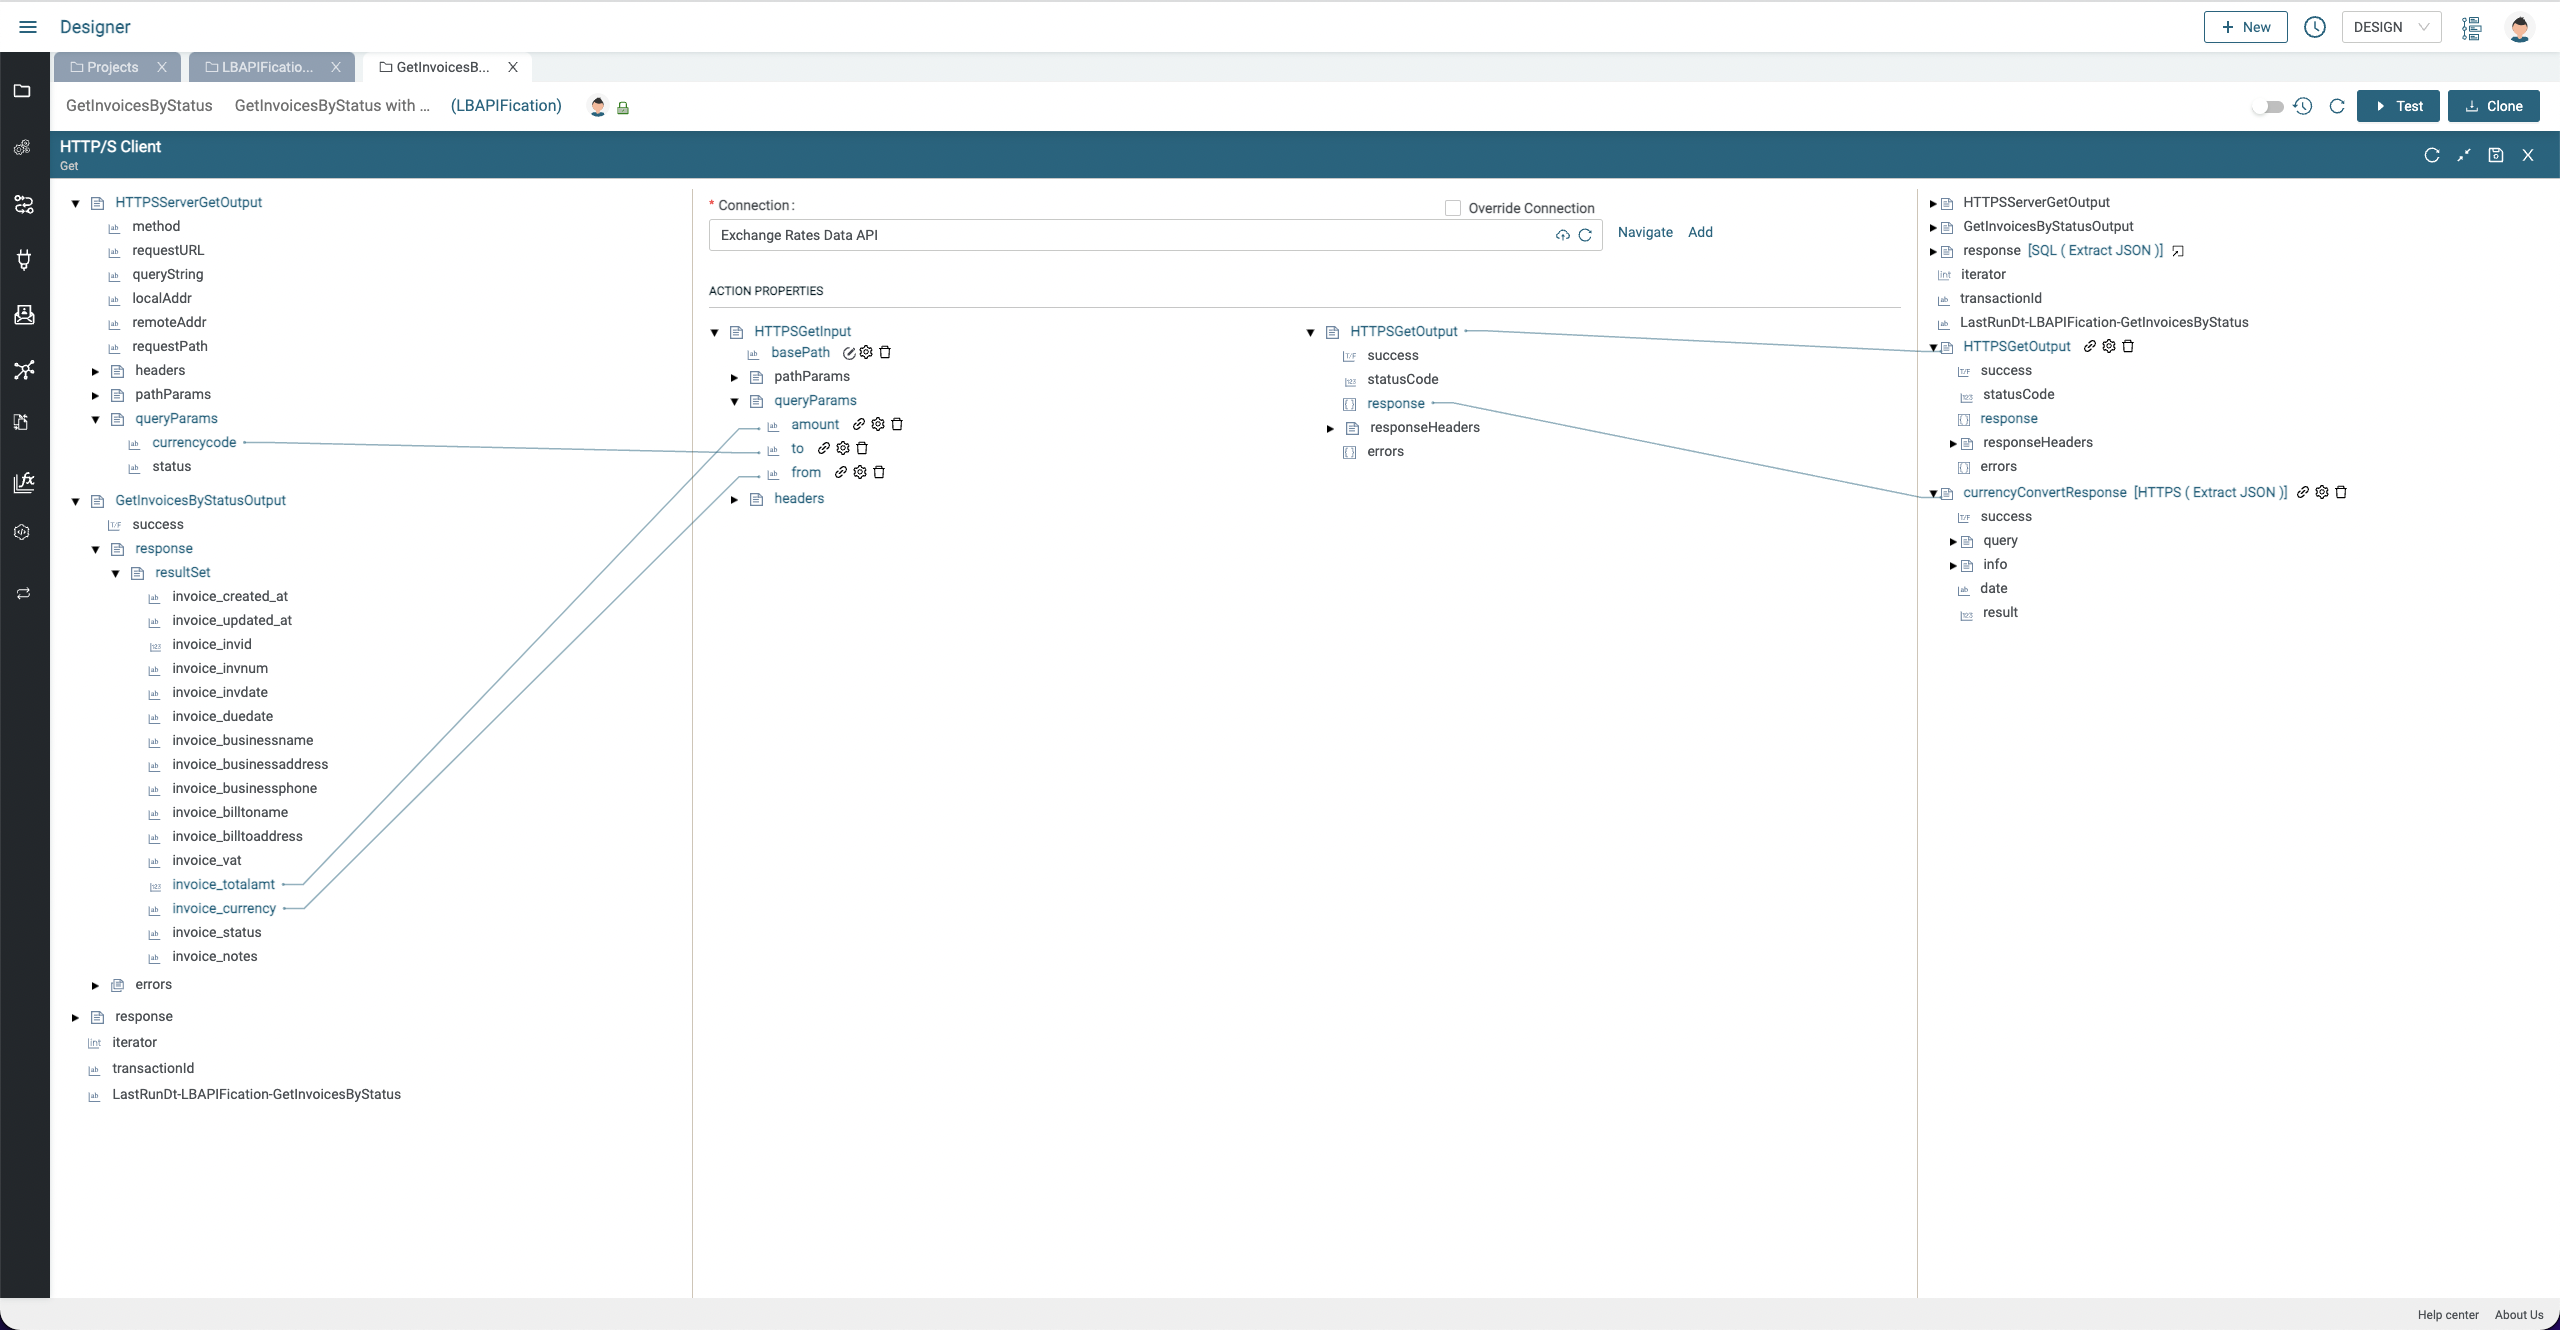
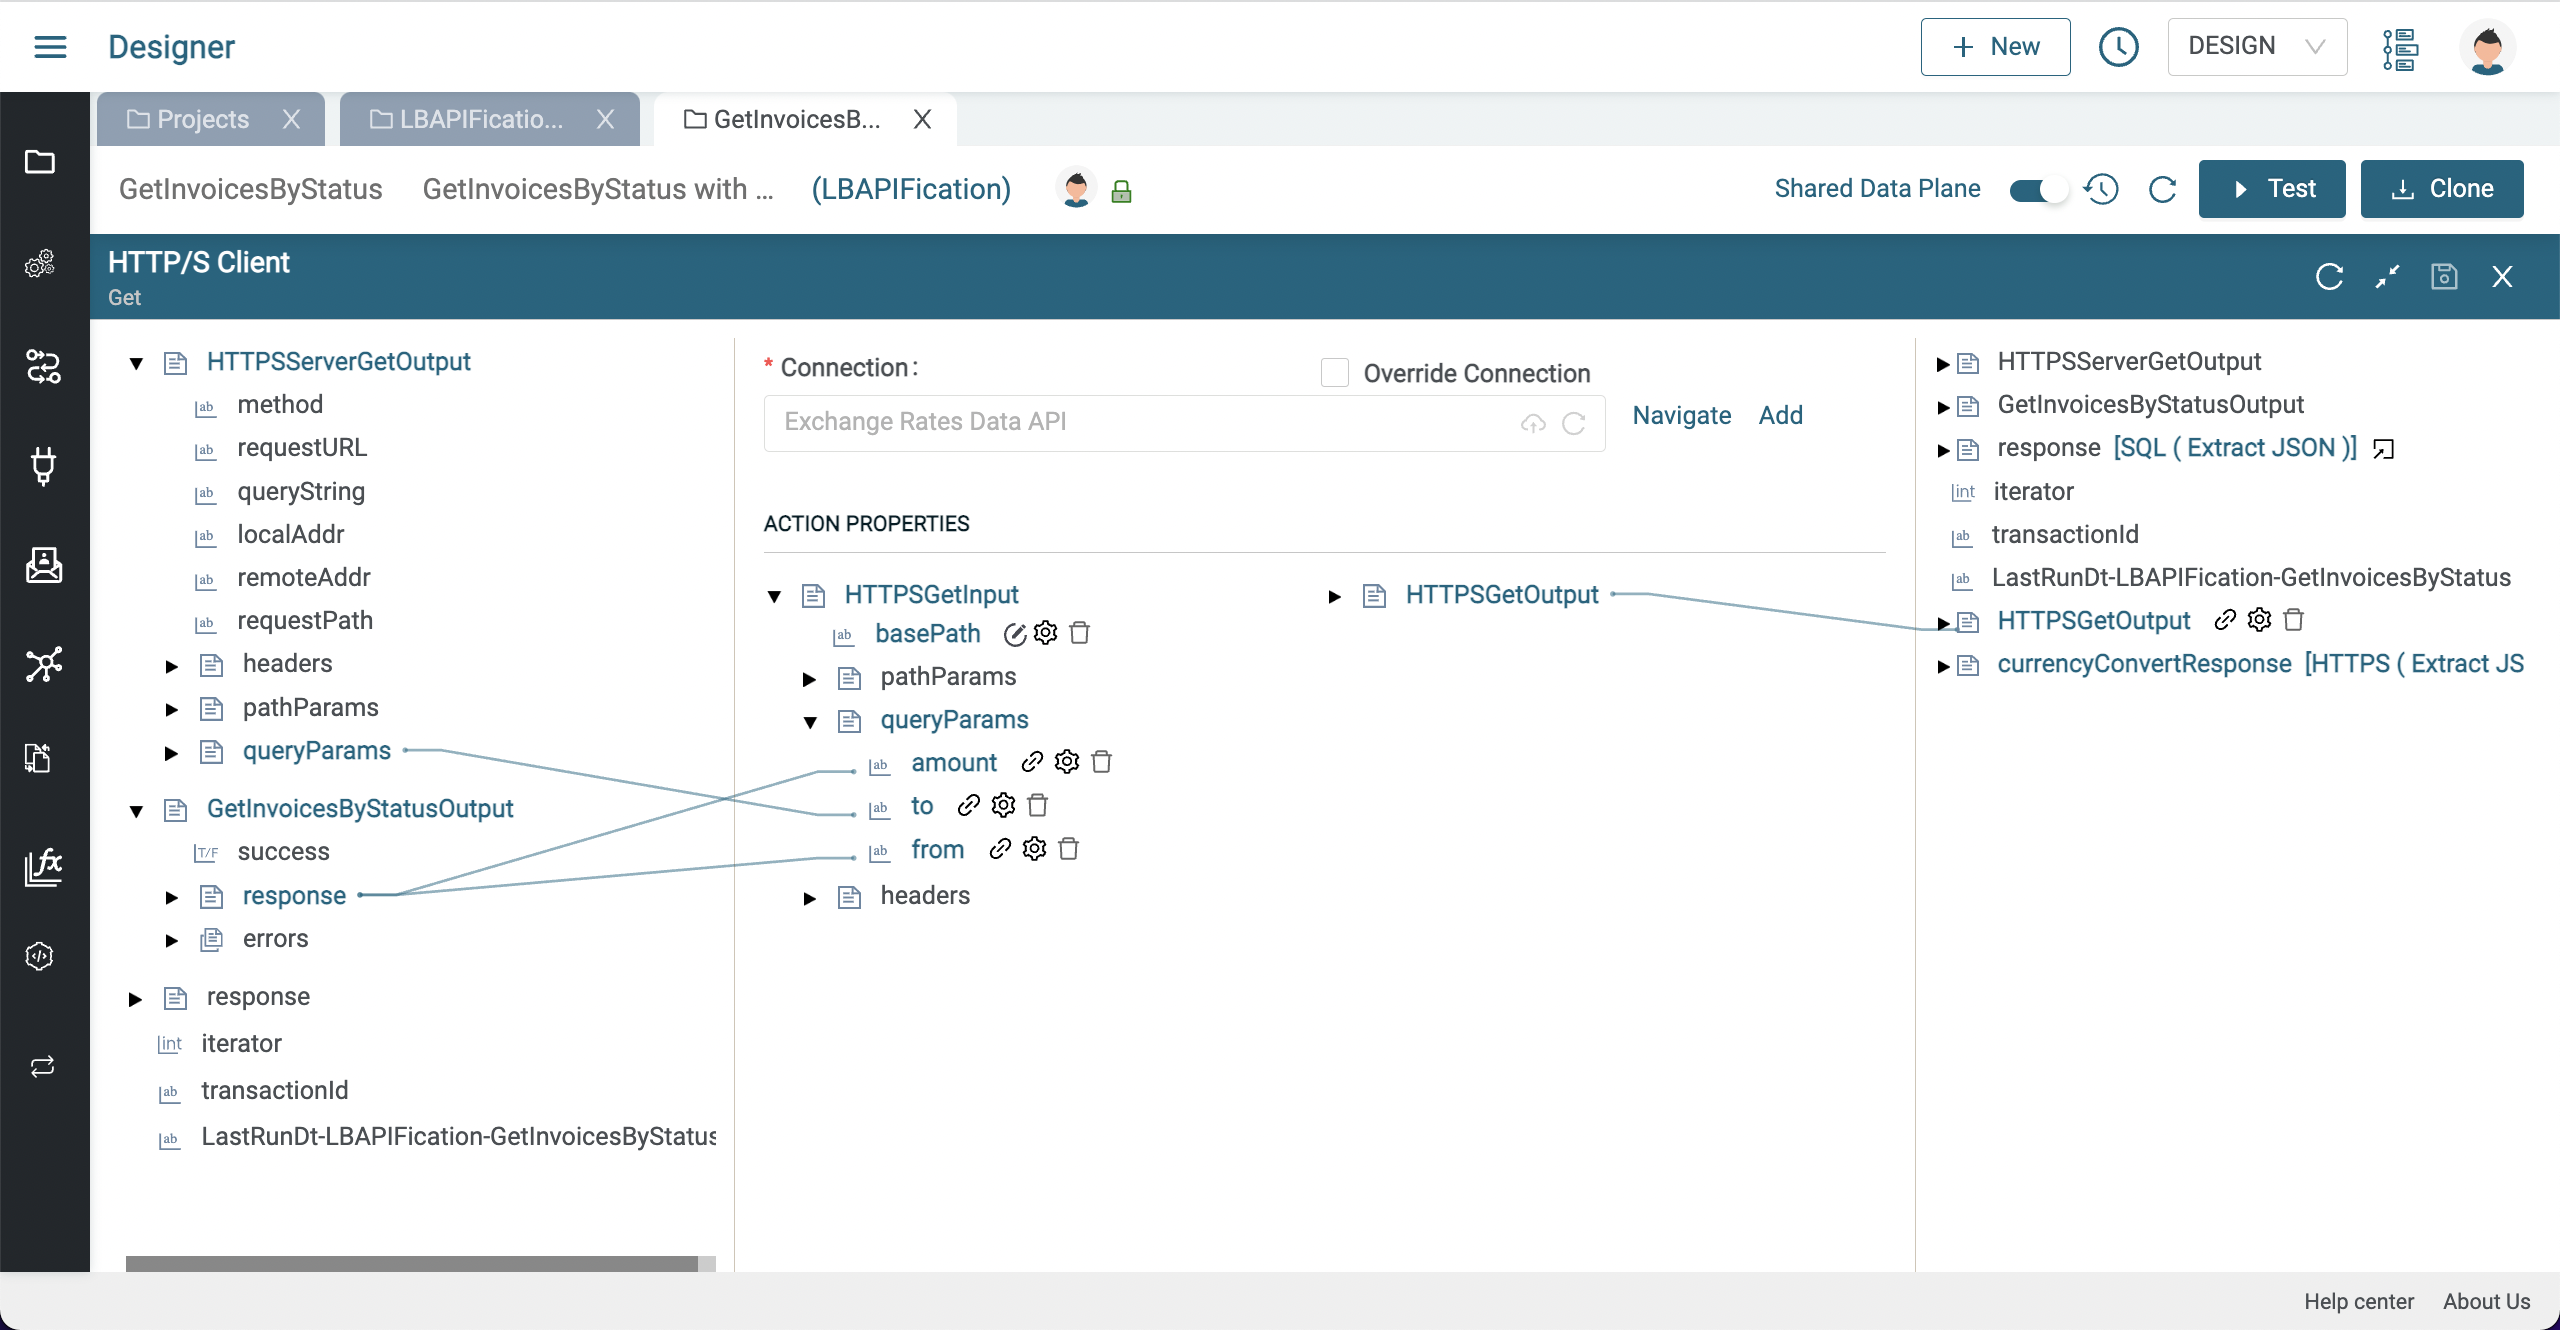
Updated APIFication lab readme

diff --git a/apification/README.md b/apification/README.md
@@ -240,14 +240,17 @@ In this lab, we'll loop over the invoices, parse each one to a JSON object and d
 * Click the down arrow and select the `GetInvoicesByStatusOutput->response->resultSet` array to loop over and click Save
 ![foreach configuration](images/lab3-foreach-configuration_.png)
 * Let's convert the invoice total amount to the desired currency using the APILayer currency conversion API. Add an HTTP/S Client Get component after the Map component inside the loop and expand the bottom panel
-* Click Add next to the Connection picker and give your connection a name and description (e.g. Exchange Rates Data API) and enter the information as shown below and click Update. Note the the URL is `api.apilayer.com/exchangerates_data`
+* Click Add next to the Connection picker and give your connection a name and description (e.g. Exchange Rates Data API) and do the following:
+  * Select HTTPS for the Protocol
+  * Select HTTP/2 for the HTTP Version
+  * Enter `api.apilayer.com/exchangerates_data` for Url
+  * Add a header named `apikey` and enter your APILayer APIKey
+  * Click Update
 ![https client connection](images/lab3-https-client-connection.png)
 * Go back to your HTTP/S Client Get component, click refresh in the Connection picker and select the connection you just created
 * In the center panel under ACTION PROPERTIES, expand `HTTPSGetInput` and:
   * Right click on basePath and setValue to `/convert`
   * Right click on `queryParams` and add 3 string variables inside (`amount`, `to` and `from`)
-  * Right click on `headers` and add a string variable called `apikey`
-  * Right click on `apikey` and setValue to your APILayer apikey value
   * Drag a line from the left hand panel `/HTTPSServerGetOutput->queryParams->currencycode` to the center panel `HTTPSGetInput->queryParams->to` to set the target currency code for the APILayer API
   * Drag a line from the left hand panel `GetInvoicesByStatusOutput->response->resultSet->invoice_totalamt` to the center panel `HTTPSGetInput->queryParams->amount` to set the amount for the APILayer API
   * Drag a line from the left hand panel `GetInvoicesByStatusOutput->response->resultSet->invoice_currency` to the center panel `HTTPSGetInput->queryParams->from` to set the source currency code for the APILayer API
